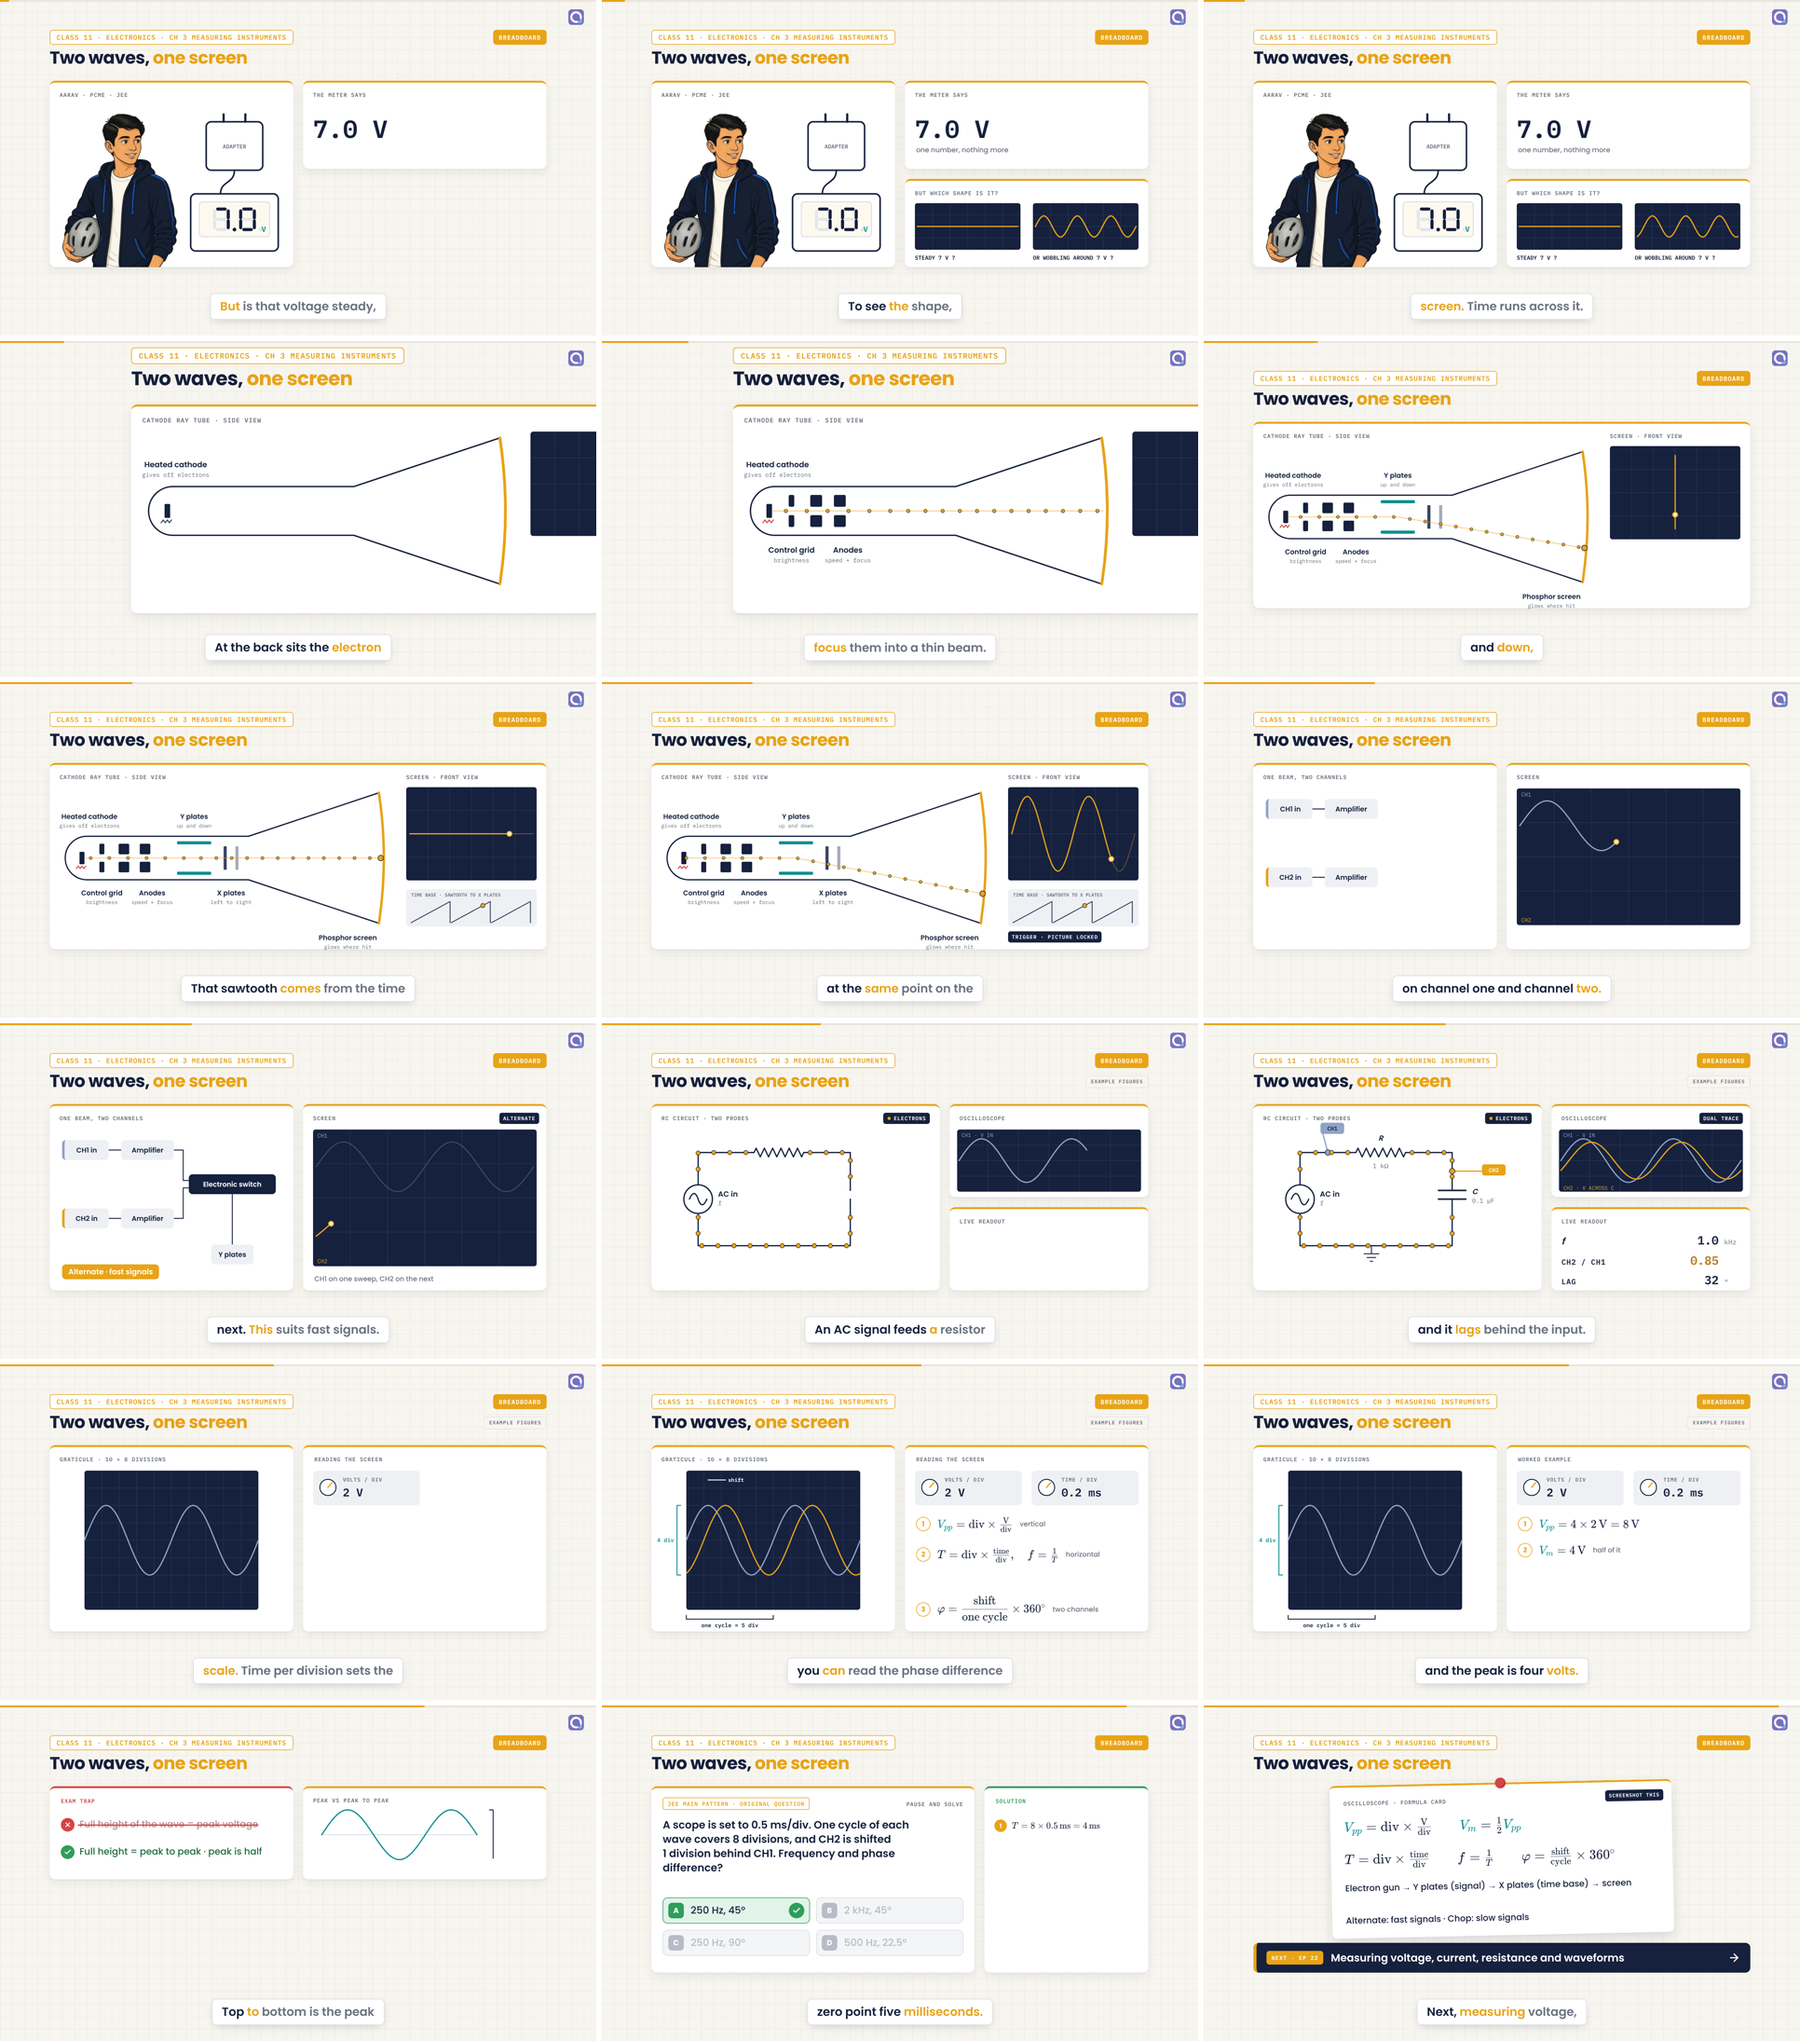
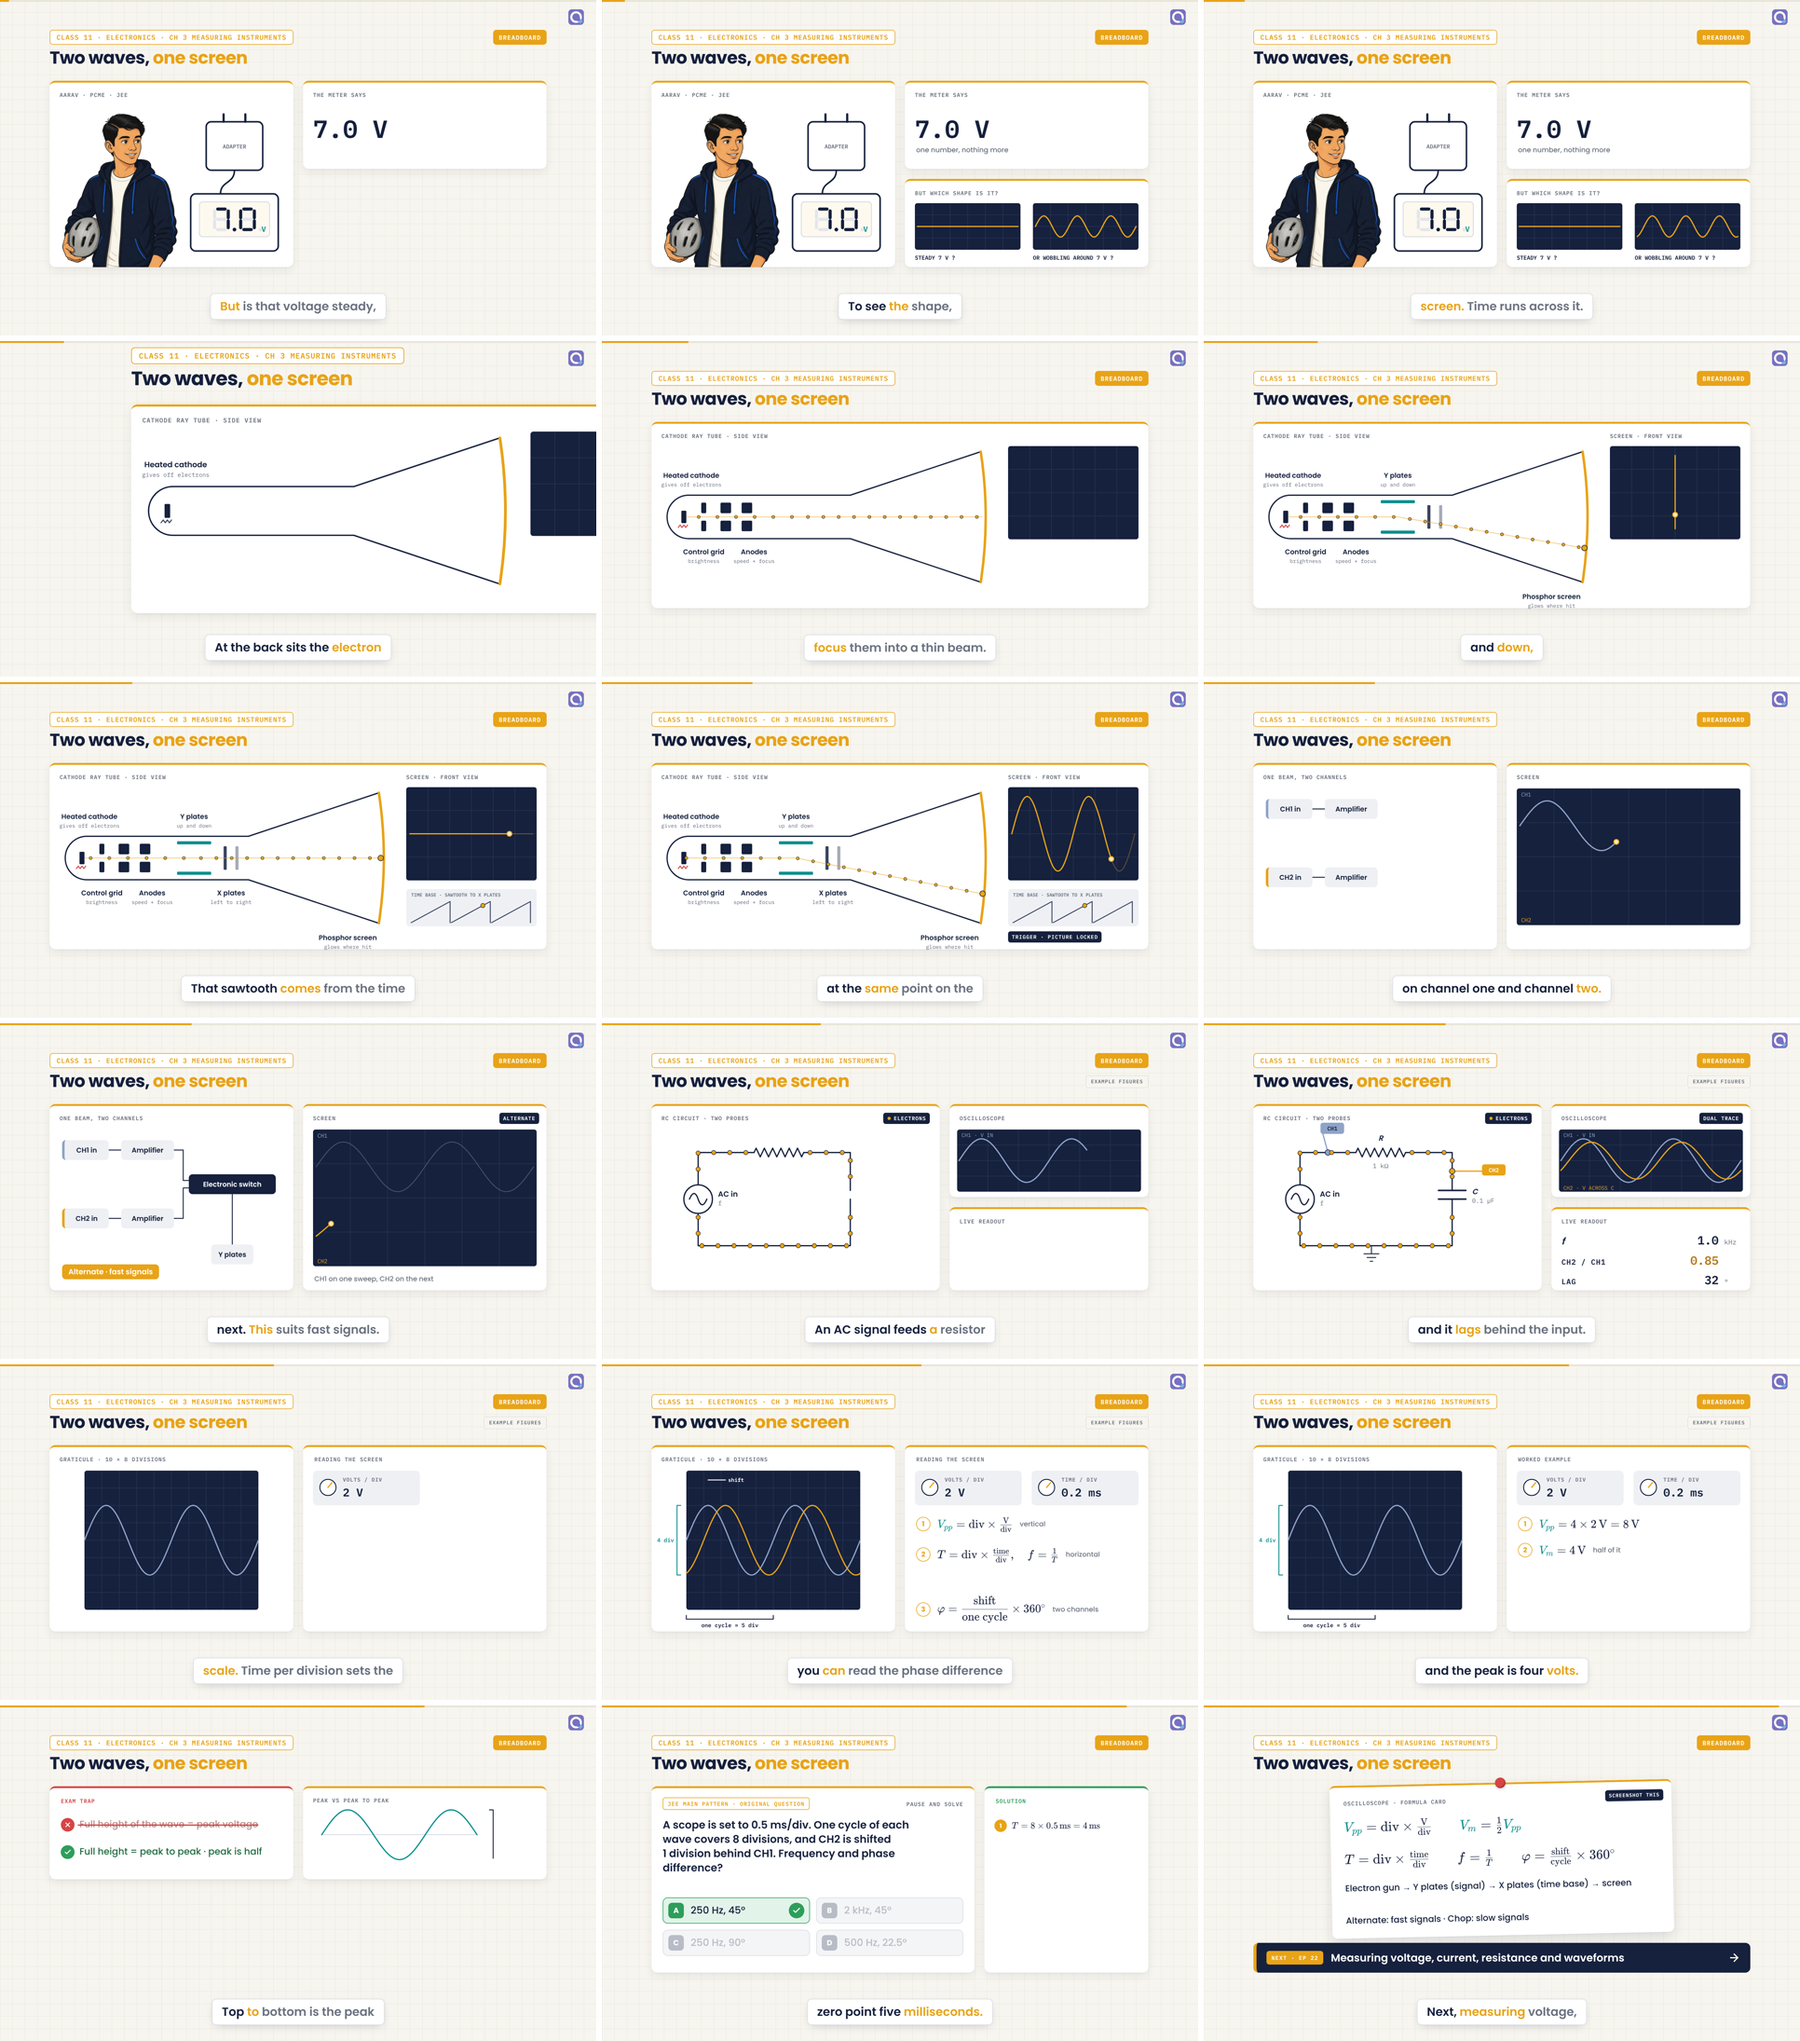
puc-electronics: Eps 18-21 reviewed, READY; Ep 1 electron flow direction fix (- to +)
Claude-Session: https://claude.ai/code/session_01Jn5fkwBrXU1Wz1X7wFi4b1

Changed region(s): [[0.3727, 0.1553, 0.6832, 0.2795]]

diff --git a/videos/puc-electronics-meaning-scope-and-development-of-electronics/scene.js b/videos/puc-electronics-meaning-scope-and-development-of-electronics/scene.js
@@ -293,7 +293,7 @@ M.on(t => {
       PUC.attr(swLev, 'transform', `rotate(${(t < tClose ? -32 : ang).toFixed(2)} 400 150)`); M.vis(swLev, t, tC1 + 0.7, 1e9, { dy: 0, fade: 0.2 });
       const lit = M.io((t - tClose) / 0.15) * (1 - M.io((t - tOpen) / 0.15));
       PUC.attr(bulbC, 'fill', M.mix('#FFFFFF', AM, lit));
-      e1.set(-150 * onT(t) + 0, t >= tB + 1.0 && t < c1out + 0.3);
+      e1.set(150 * onT(t), t >= tB + 1.0 && t < c1out + 0.3);
       trI(τ => closed(τ) ? 120 : 0, t, tB + 0.6, 6, 168, t >= tB + 0.6);
       M.setT($('#r1I'), closed(t) ? '0.30' : '0.00'); M.setT($('#r1B'), closed(t) ? 'ON' : 'OFF'); $('#r1B').style.color = closed(t) ? '#B7791F' : MU;
     } else { trI(() => 0, t, 0, 6, 168, false); e1.set(0, false); }
@@ -386,7 +386,7 @@ M.on(t => {
     trap(t, { tin: tX, tWrong: wt('X2', 'Many') - 0.05, tStrike: wt('X2', 'not'), tRight: wt('X3', 'Electrons') - 0.1 });
     drawSeq(tcW, t, tX + 0.5, 0.4, 0.12); fadeAt(tcL, t, tX + 0.9);
     const ia = M.io((t - wt('X3', 'Conventional') + 0.1) / 0.45); tcI.set(250, 72, 250 + 190 * ia, 72); tcIL.style.opacity = ia;
-    tcE.set(-80 * Math.max(0, t - wt('X3', 'Electrons')), t >= wt('X3', 'Electrons') - 0.2); M.vis(tcEL, t, wt('X3', 'Electrons'), 1e9, { dy: 0, fade: 0.2 });
+    tcE.set(80 * Math.max(0, t - wt('X3', 'Electrons')), t >= wt('X3', 'Electrons') - 0.2); M.vis(tcEL, t, wt('X3', 'Electrons'), 1e9, { dy: 0, fade: 0.2 });
     where(t, { tin: wt('X4', 'Where') - 0.2, tLight: [wt('X4', 'PUC')], tType: wt('X4', 'Define') - 0.2 });
   }
 
